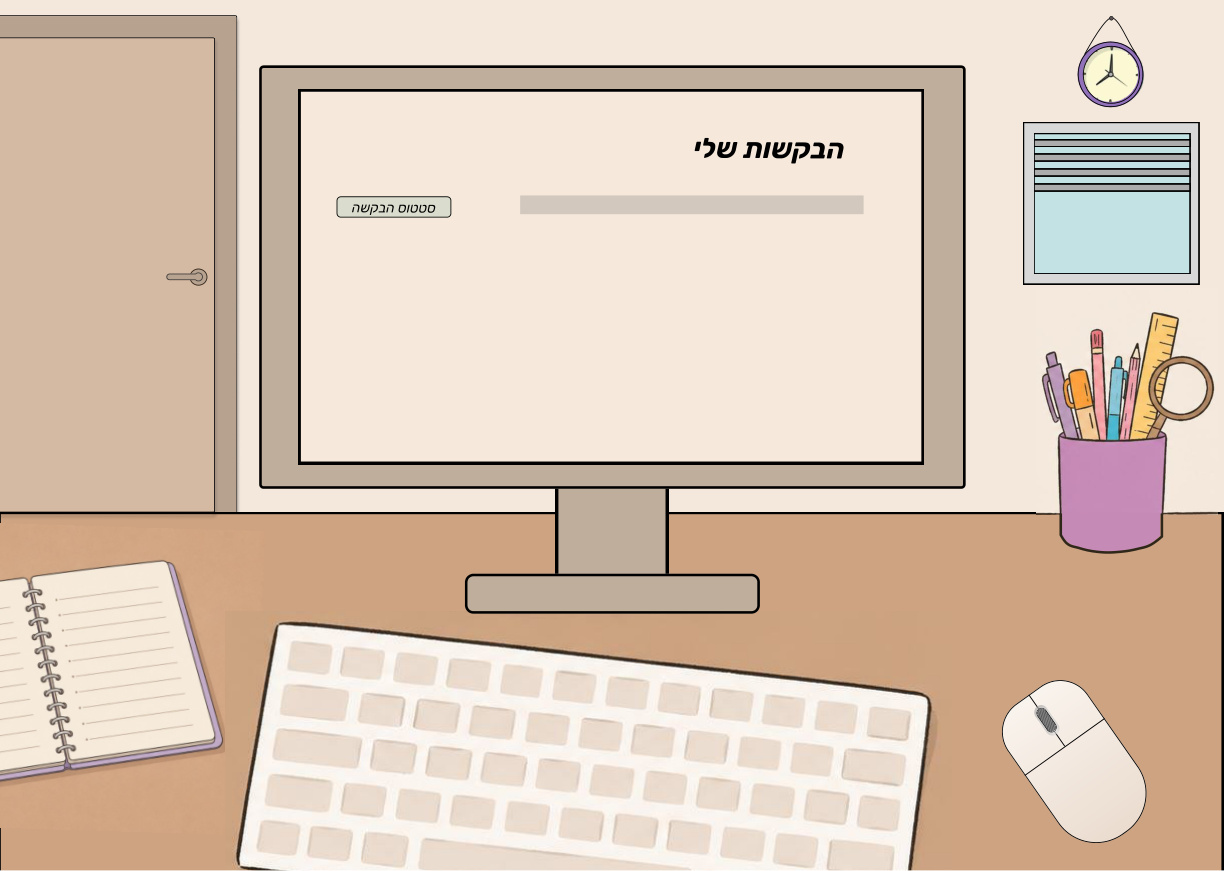
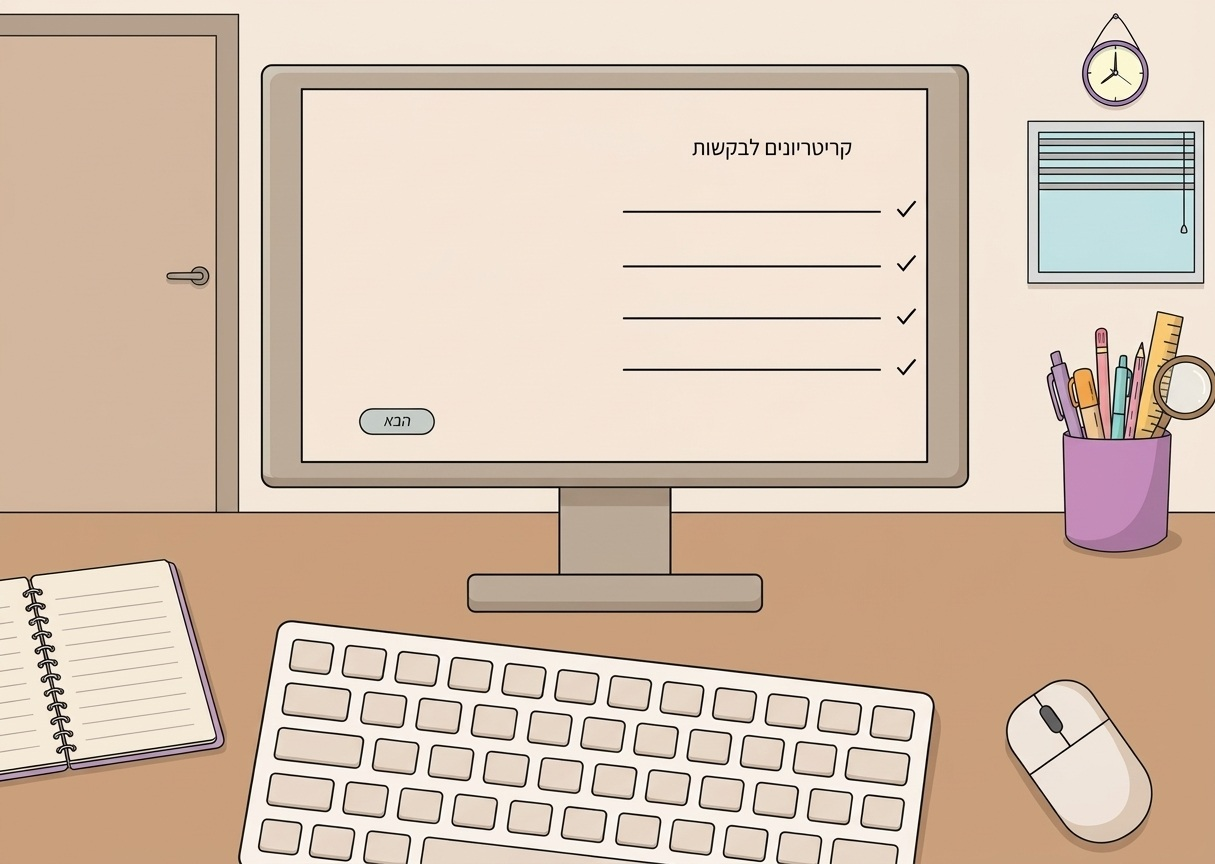
26/10

diff --git a/src/main.jsx b/src/main.jsx
@@ -92,6 +92,9 @@ function App(){
         <button className="primary" onClick={restart}>
           להתחיל מחדש ↻
         </button>
+        {/* <div className="retry-img"> */}
+        <img className="retry-img" src="src\assets\retry.png" alt="" />
+        {/* </div> */}
       </section>
     ) : 
     
@@ -182,31 +185,6 @@ function App(){
     )}
   </main>
 );
-//לא היה לי נעים למחוק- מוזמנת למחוק זה פחות קריא פשוט, לא שיניתי כלום מבטיחה
-//  return (
-//    <main className="app-shell">
-//   <header className="topbar">
-//     <div className="logo-container">
-//       <img className="topbar-logo" src=".\assets\Bahad11.png" width="65px" height="65px" alt="" /></div>
-//       <div>
-//         <div className="h1-container">
-//           <h1>לומדת ביקור בית</h1></div></div>
-//           </header>
-//   {!started ? <section className="welcome layout-card"><div className="welcome-copy"><h2>ברוכה הבאה ללומדת ביקור בית</h2>
-//   <p> במהלך הלומדה תעברי בין שלבי העבודה המלווים את תהליך הטיפול, תבחרי את הפעולה המתאימה ותעני על שאלות מקצועיות. קחי את הזמן, חשבי על שלבי הטיפול שלמדת והפגיני את הידע שלך.
-// בהצלחה!</p><button className="primary" onClick={()=>setStarted(true)}>מתחילים <span>←</span></button></div><img className="welcome-art" src="/scenes/scene-00.jpg" alt="איור מתוך לומדת ביקור בית" onError={e=>e.currentTarget.style.display='none'}/></section>
-//   : finished ? <section className="result layout-card"><div className="result-icon">✓</div><p className="eyebrow">סיום הלומדה</p><h2>כל הכבוד, סיימת את הלומדה!</h2><p className="score">ענית נכון על <strong>{score}</strong> מתוך <strong>{questions.length}</strong> שאלות</p><div className="result-track"><span style={{width:`${score/questions.length*100}%`}}/></div><p>מומלץ לחזור על שלבים שבהם תרצי לחזק את הידע.</p><button className="primary" onClick={restart}>להתחיל מחדש ↻</button></section>
-//   : <section className="lesson">
-//    <div className="progress-row"><span>שאלה {index+1} מתוך {questions.length}</span><span>{Math.round((index+1)/questions.length*100)}%</span></div><div className="progress-track"><span style={{width:`${(index+1)/questions.length*100}%`}}/></div>
-//    <div className="lesson-grid"><aside className="scene-panel"><img src={`/scenes/scene-${String(index+1).padStart(2,'0')}.jpg`} alt="איור של שלב הביקור"/><div className="scene-caption"><span>שלב {index+1}</span><strong>{q.stage}</strong></div></aside>
-//     <article className="question-panel"><div className="stage-tag">{q.stage}</div><h2>{q.context}</h2><p className="choose-hint">בחרי את התשובה הנכונה:</p><div className="options">{q.options.map((opt,i)=><button key={opt} className={`option ${selected===i?'selected':''} ${checked&&i===q.answer?'correct':''} ${checked&&selected===i&&i!==q.answer?'wrong':''}`} onClick={()=>choose(i)} disabled={checked}><span className="option-letter">{['א','ב','ג','ד'][i]}</span><span>{opt}</span>{checked&&i===q.answer&&<span className="answer-mark">✓</span>}</button>)}</div>
-//     {checked&&<div className={`feedback ${selected===q.answer?'positive':'negative'}`}><strong>{selected===q.answer?'נכון מאוד!':'לא בדיוק — נמשיך ללמוד'}</strong><p>{q.feedback}</p></div>}
-//     <div className="actions">{!checked?<button className="primary" disabled={selected===null} onClick={check}>בדיקת תשובה</button>:<button className="primary" onClick={next}>{index===questions.length-1?'לסיום הלומדה':'לשאלה הבאה'} <span>←</span></button>}<span className="keyboard-note">{checked?'   ':''}</span></div>
-//    </article></div>
-//   </section>}
-//  </main>
-
-// )
 }
 
 createRoot(document.getElementById('root')).render(<App/>);

diff --git a/src/style.css b/src/style.css
@@ -1,13 +1,13 @@
 @font-face {
-  font-family: "Ploni";
-  src: url("./fonts/PloniRegular.otf");
-  font-weight: 400;
+    font-family: "Ploni";
+    src: url("./fonts/PloniRegular.otf");
+    font-weight: 400;
 }
 
 @font-face {
-  font-family: "Ploni-bold";
-  src: url("./fonts/ploni-bold.otf");
-  font-weight: 700;
+    font-family: "Ploni-bold";
+    src: url("./fonts/ploni-bold.otf");
+    font-weight: 700;
 }
 
 :root {
@@ -459,6 +459,14 @@ footer {
     font-size: 11px;
     padding-top: 20px;
     margin-top: auto
+}
+
+.retry-img {
+    position: absolute;
+    width: 20%;
+    height: 25%;
+    margin-right:485px;
+    margin-top: 75px;
 }
 
 @media(max-width:850px) {
